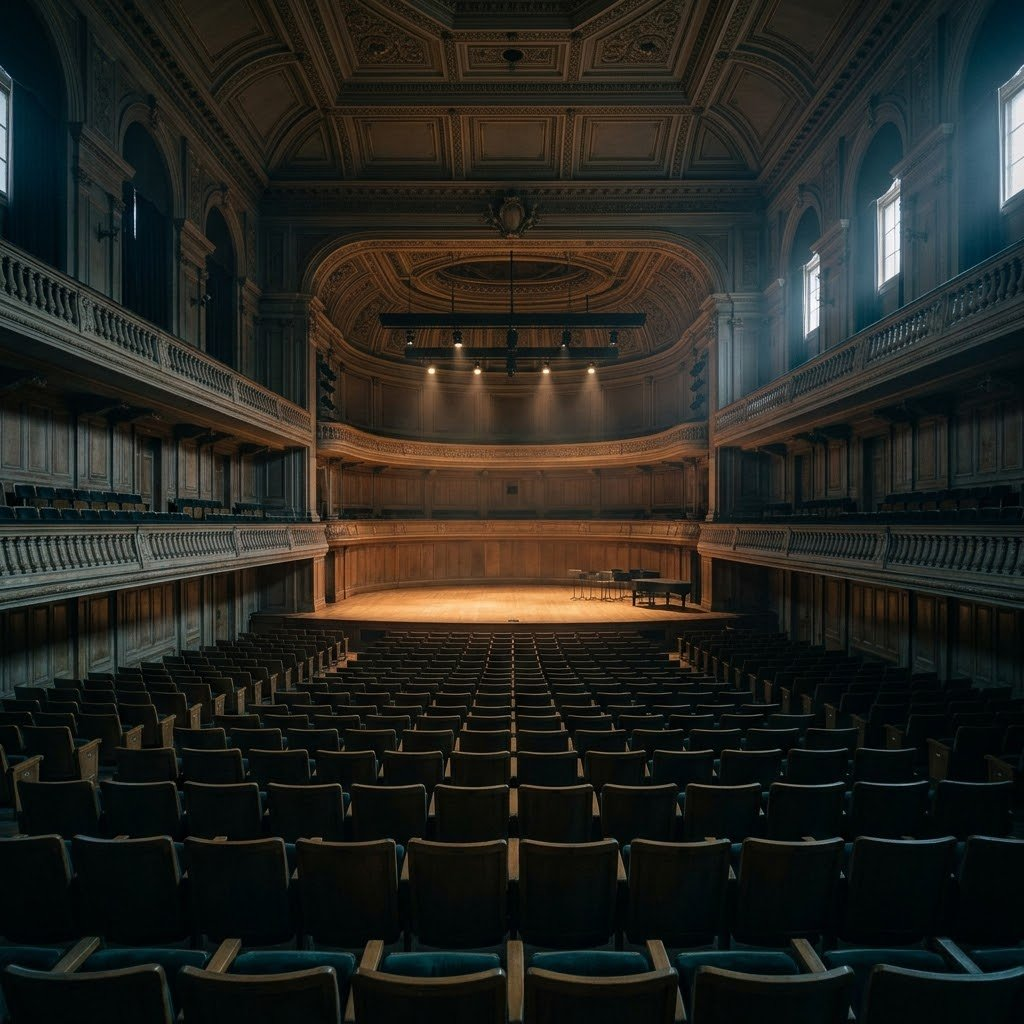
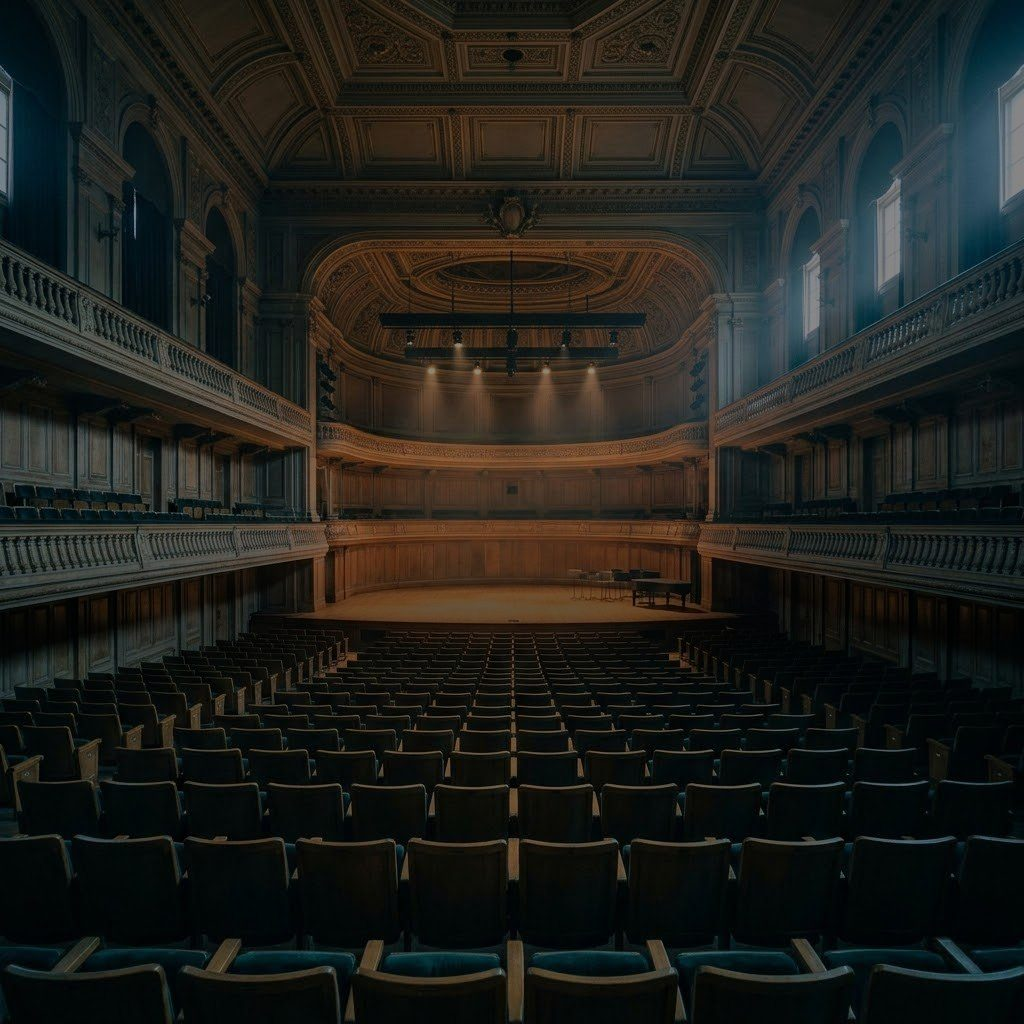
Tone down the hall picture behind the readouts
The new hall illustration's lit stage floor sat behind the RT60, Pre-delay
and Tail readouts in Anodised, Vitrine and Folio, so the text contrast
test failed (Tail 2.0:1, needs 4.5:1). Highlights roll off gently and a
soft burn across the band where the readouts sit darkens it; the hall
still reads as lit. Recording credits now say every space picture is an
AI illustration, as NOTICE already does.

Claude-Session: https://claude.ai/code/session_01KcQXDM4UVdTsC5DjxkiPPc

diff --git a/source/ui/js/app.js b/source/ui/js/app.js
@@ -168,7 +168,7 @@ function creditsHTML(){var seen={},rows=[];LIBRARY.forEach(function(x){var k=x.c
    :'<p>This build has no recorded spaces.</p>';
  var model='<ul class="crl"><li><b>Places365 scene recognition model (ResNet-18 with scene attributes): Bolei Zhou, Agata Lapedriza, Aditya Khosla, Aude Oliva and Antonio Torralba, MIT CSAIL (2017)</b><span>CC BY, places2.csail.mit.edu</span><small>Looks at a photograph in Describe a room. Zhou et al., Places: A 10 million Image Database for Scene Recognition, IEEE TPAMI 2017.</small><small>Changes: weights quantised to 8 bits and batch normalisation folded in, for the plugin\u2019s own reader.</small></li></ul>';
  return '<div class="cap crd" role="dialog" aria-modal="true" aria-labelledby="crd-h" tabindex="-1" data-fid="dlg-crd"><div class="cbox"><div class="chd"><h2 id="crd-h">Recording credits</h2><button class="cx" data-act="credits" aria-label="Close">Close</button></div>'+
-  '<p>The recorded spaces are used under the licences below. Thank you to everyone who made and shared them.</p>'+body+'<p>The scene model that reads photographs:</p>'+model+'<p>The pictures of churches, industrial spaces, rooms, underground spaces and your own IR, and the one in the welcome, are photorealistic illustrations made with AI (Google Gemini) for Drenched. They show the kind of space, not the room that was recorded.</p></div></div>';}
+  '<p>The recorded spaces are used under the licences below. Thank you to everyone who made and shared them.</p>'+body+'<p>The scene model that reads photographs:</p>'+model+'<p>The pictures of the spaces and of your own IR, and the one in the welcome, are photorealistic illustrations made with AI (Google Gemini) for Drenched. They show the kind of space, not the room that was recorded.</p></div></div>';}
 
 /* ---- each speaker's reverb level and delay, with a meter per output ---- */
 st.spk=false;st.speakers=[];st.outputs=[{name:'L',wet:true},{name:'R',wet:true}];st.spkM=[];
